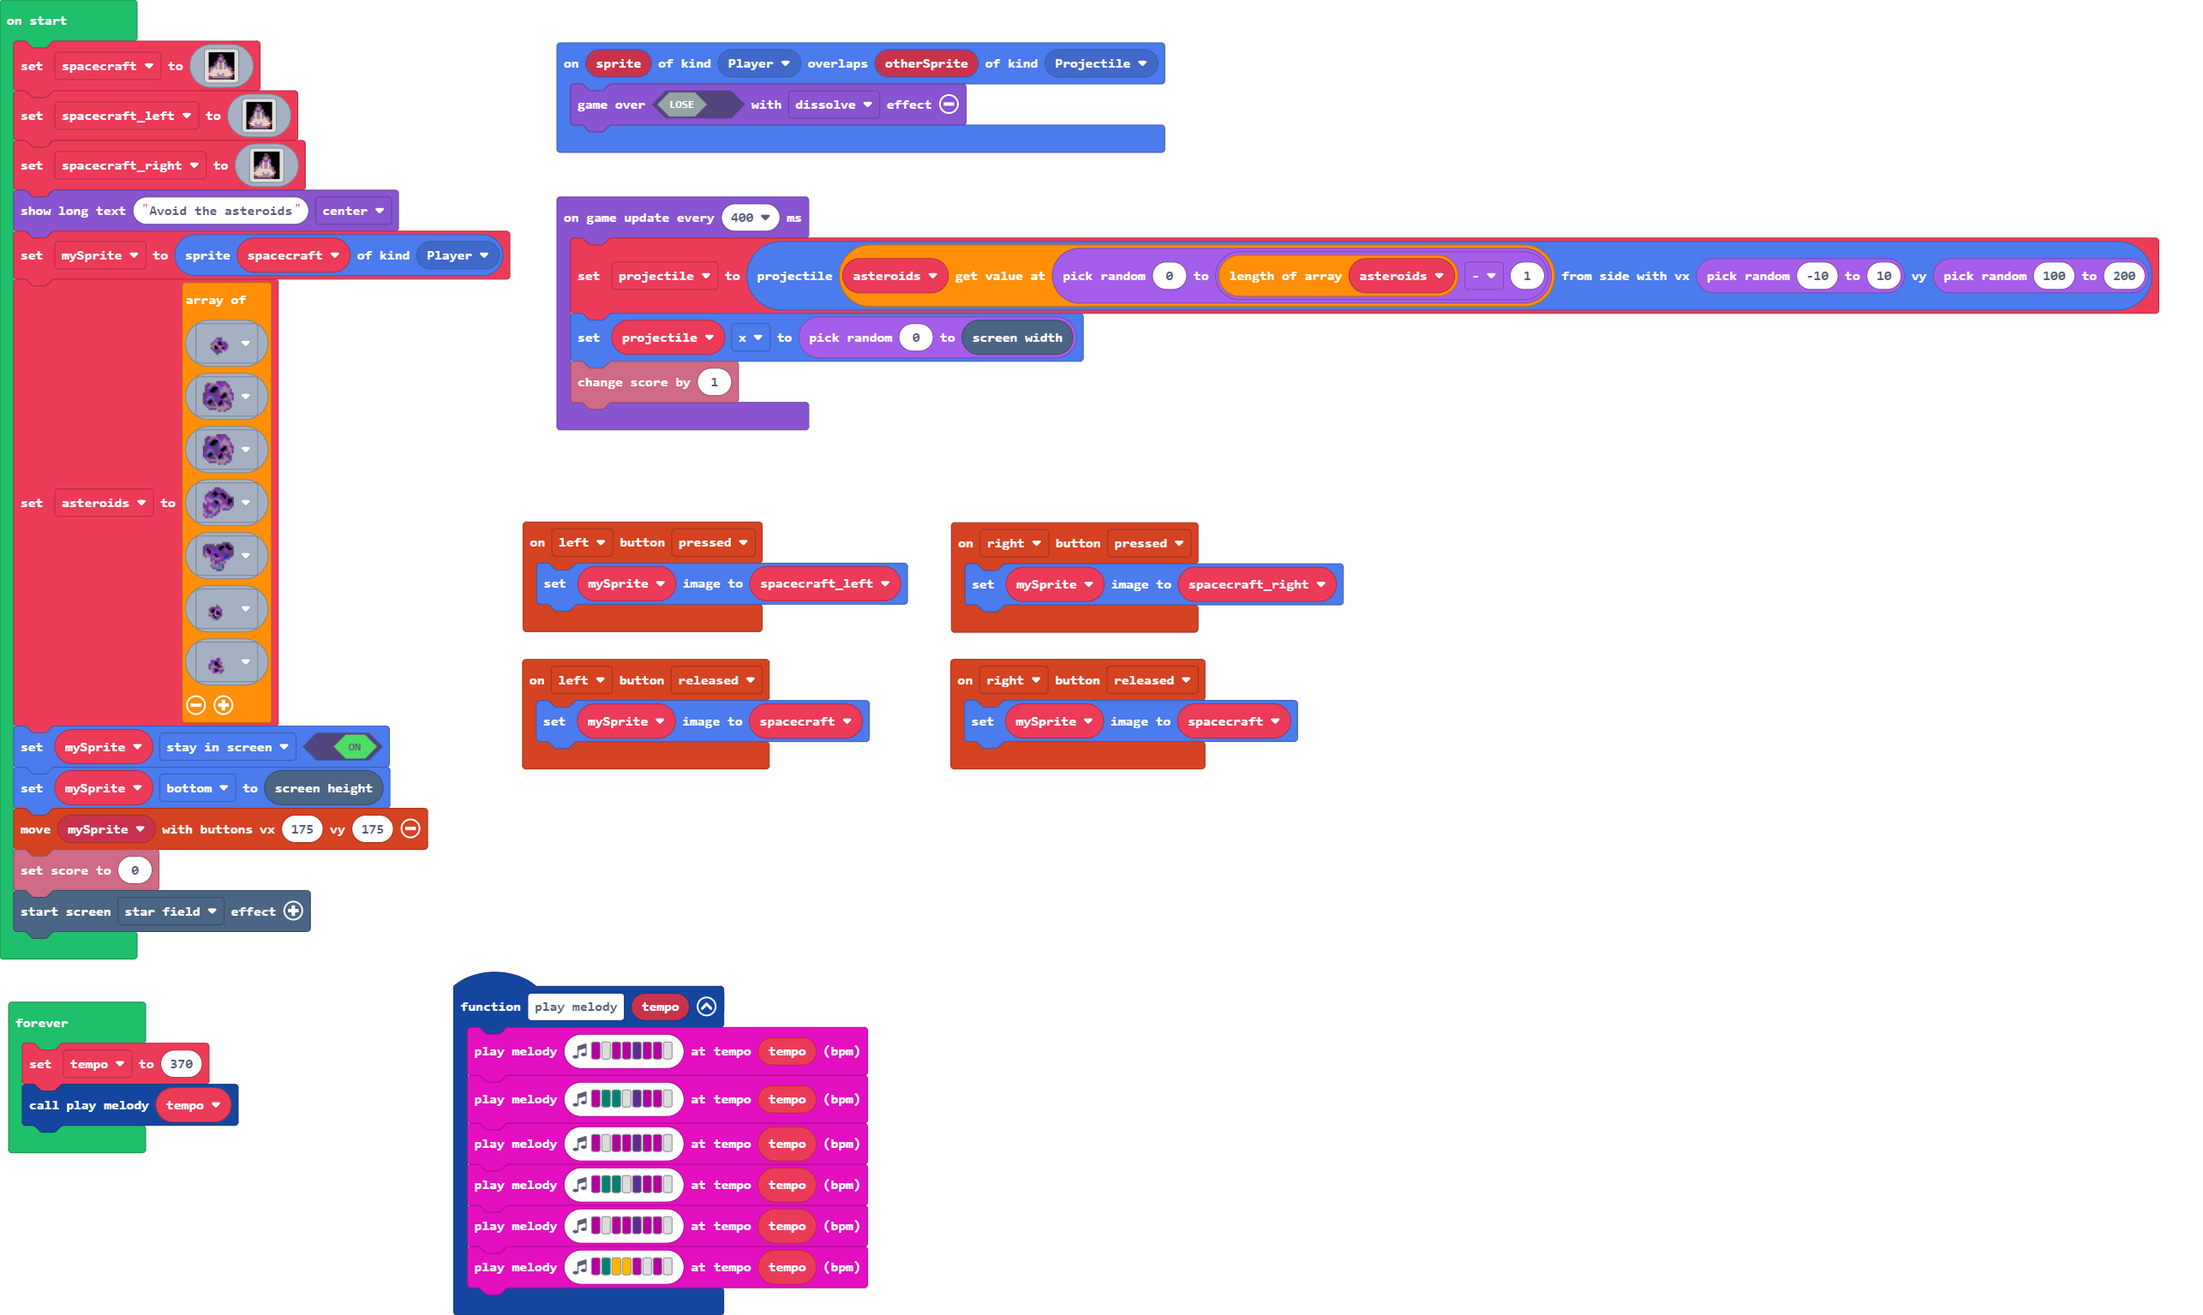
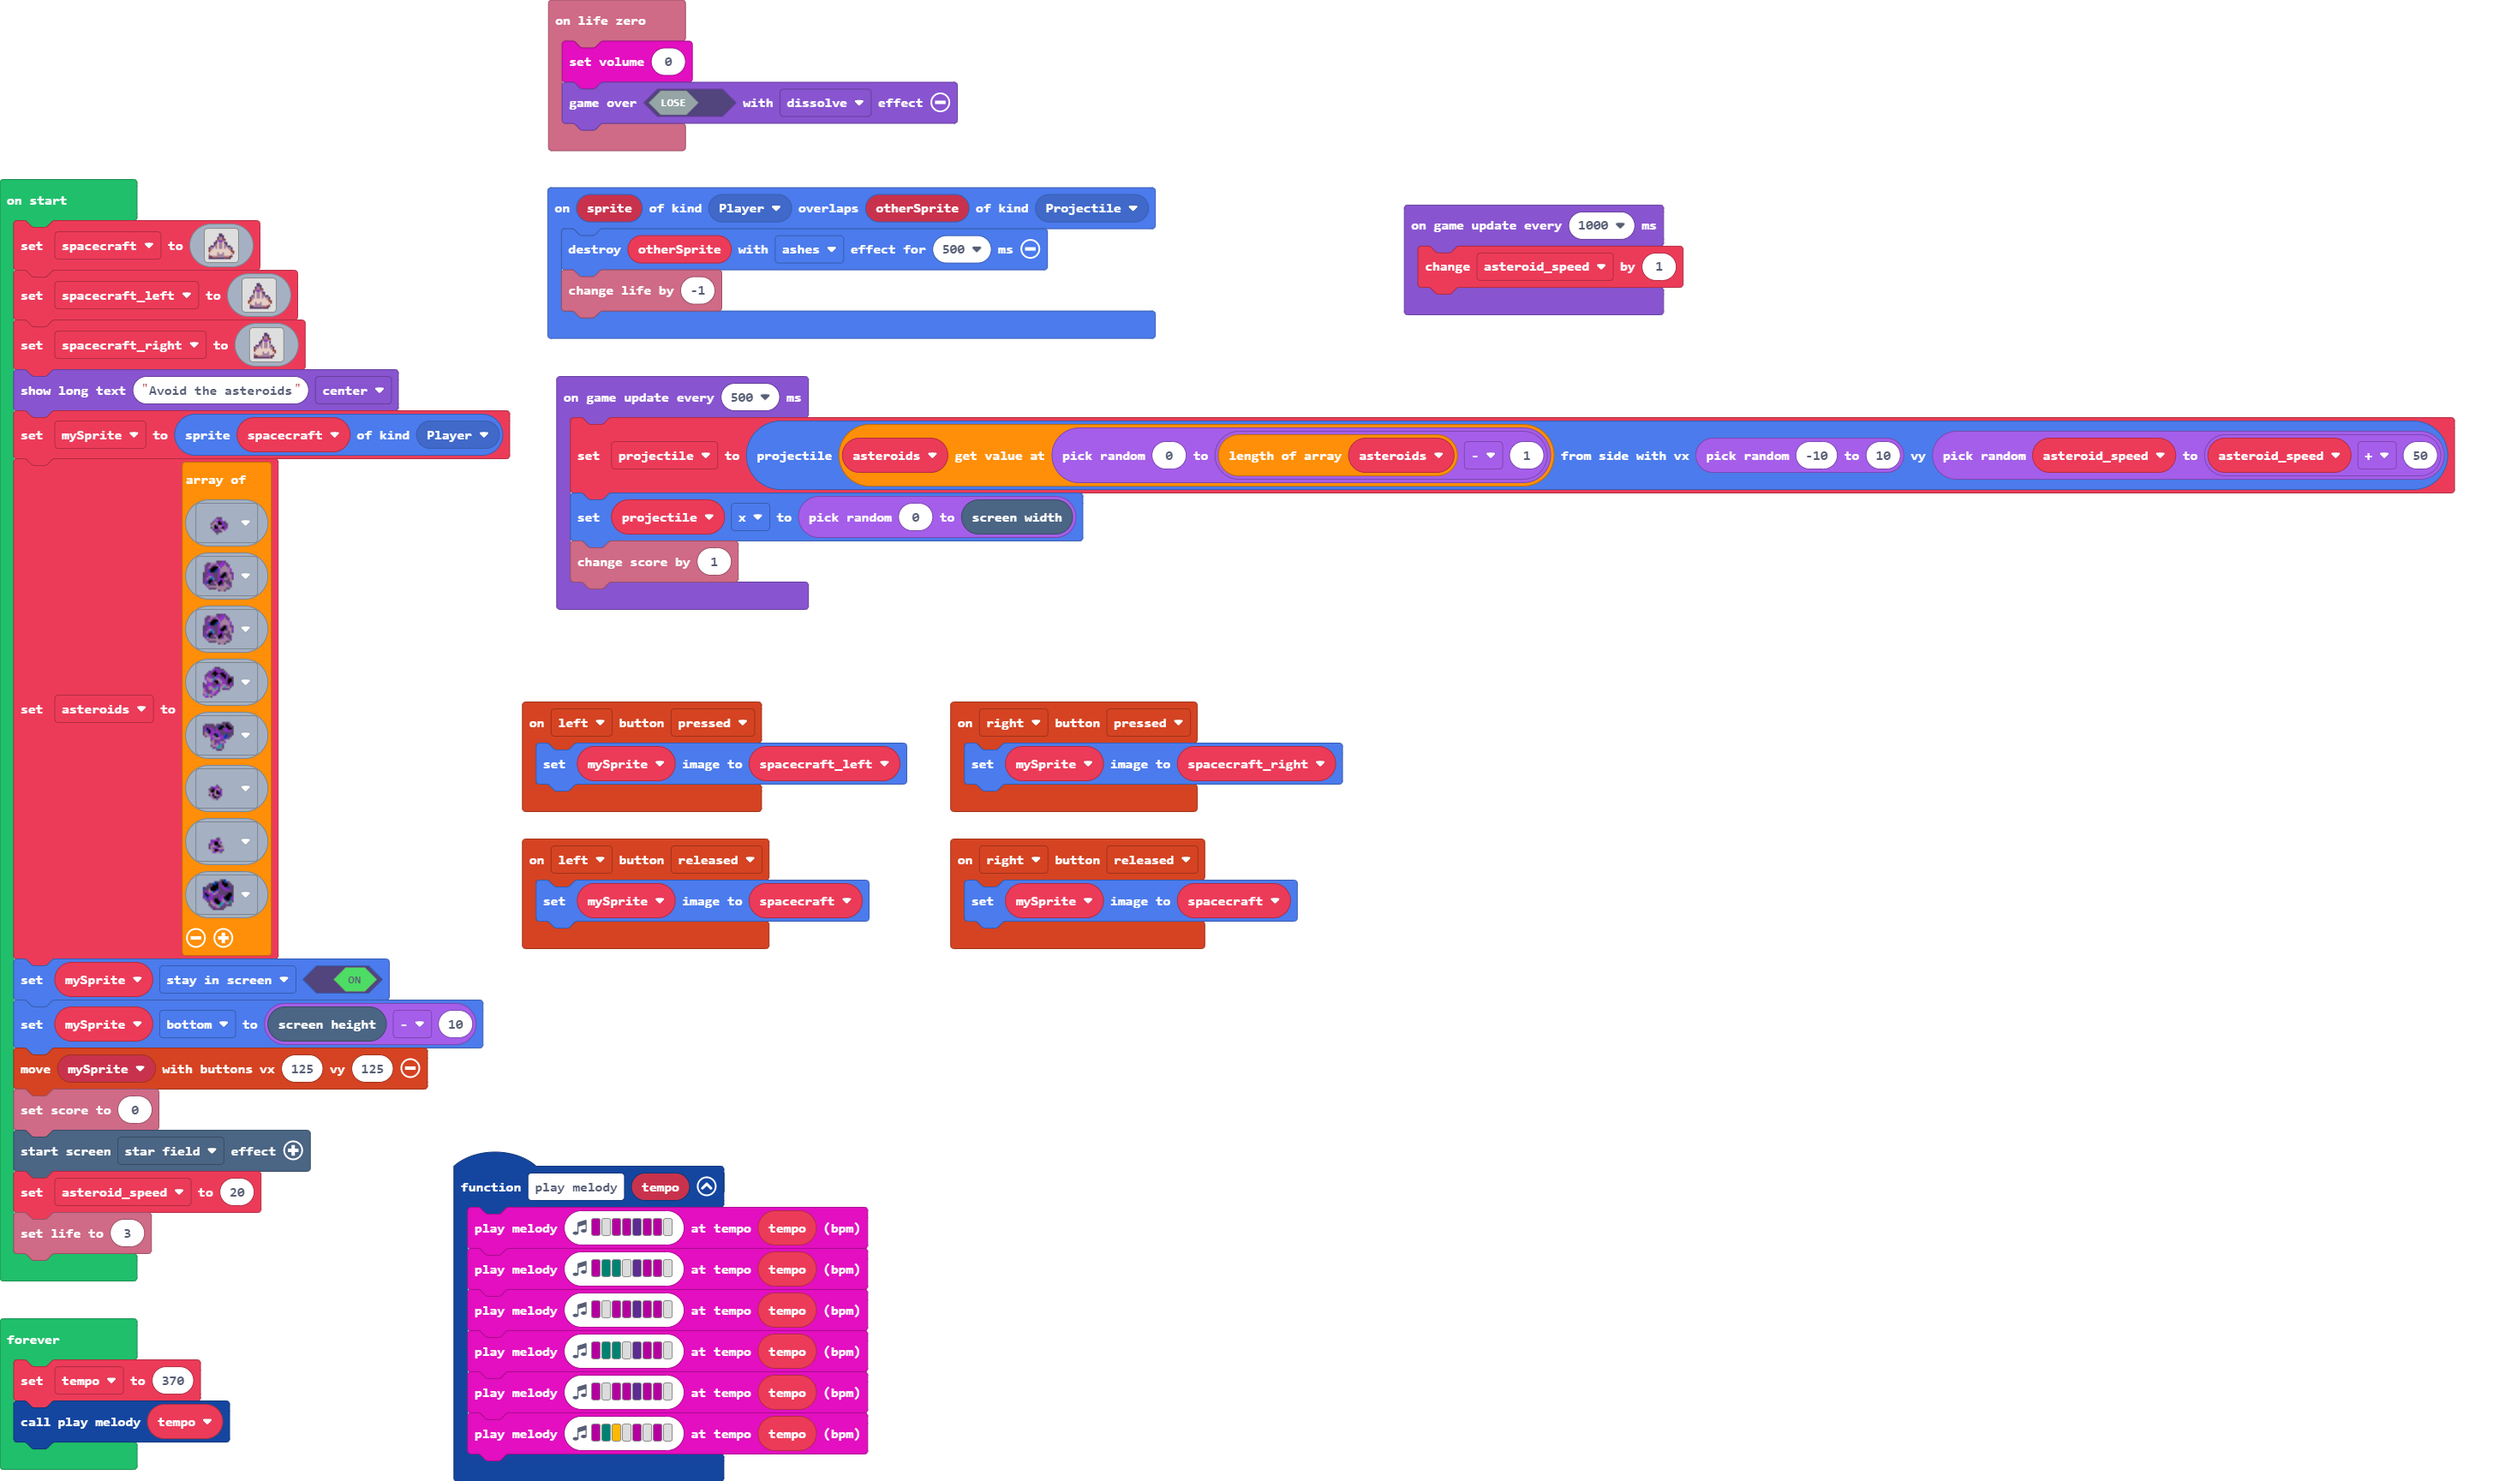
Life management + acceleration of asteroids

diff --git a/main.ts b/main.ts
@@ -11,6 +11,11 @@ controller.right.onEvent(ControllerButtonEvent.Pressed, function () {
     mySprite.setImage(spacecraft_right)
 })
 sprites.onOverlap(SpriteKind.Player, SpriteKind.Projectile, function (sprite, otherSprite) {
+    otherSprite.destroy(effects.ashes, 500)
+    info.changeLifeBy(-1)
+})
+info.onLifeZero(function () {
+    music.setVolume(0)
     game.over(false, effects.dissolve)
 })
 function play_melody (tempo: number) {
@@ -19,67 +24,67 @@ function play_melody (tempo: number) {
     music.playMelody("C - C C D C C - ", tempo)
     music.playMelody("C F F - D C C - ", tempo)
     music.playMelody("C - C C D C C - ", tempo)
-    music.playMelody("C F A A C - C - ", tempo)
+    music.playMelody("C F A - C - C - ", tempo)
 }
-let tempo = 0
 let projectile: Sprite = null
+let tempo = 0
 let mySprite: Sprite = null
 let spacecraft_right: Image = null
 let spacecraft_left: Image = null
 let spacecraft: Image = null
 spacecraft = img`
-    f f f f f f f f f f f f f f f 
-    f f f f f f c c f f f f f f f 
-    f f f f f f c c c f f f f f f 
-    f f f f f c b b c f f f f f f 
-    f f f f f e b b e e f f f f f 
-    f f f f c b a a b b f f f f f 
-    f f f c c d b b d c c f f f f 
-    f f f c b d b b d b c f f f f 
-    f c c b b d b b d b b c c f f 
-    c b b d b d b b d b d b b c f 
-    e b d d d d d d d d d d b e f 
+    . . . . . . . . . . . . . . . 
+    . . . . . . c c . . . . . . . 
+    . . . . . . c c c . . . . . . 
+    . . . . . c b b c . . . . . . 
+    . . . . . e b b e e . . . . . 
+    . . . . c b a a b b . . . . . 
+    . . . c c d b b d c c . . . . 
+    . . . c b d b b d b c . . . . 
+    . c c b b d b b d b b c c . . 
+    c b b d b d b b d b d b b c . 
+    e b d d d d d d d d d d b e . 
     e d d d d d d d d d d d d e e 
     d d d d d b d d b d d d d d e 
-    b d d d d b b b b d d d d b f 
-    e c b 4 b b b b b b b 4 c e f 
-    c c c c c c c c c e c c c f f 
+    b d d d d b b b b d d d d b . 
+    e c b 4 b b b b b b b 4 c e . 
+    c c c c c c c c c e c c c . . 
     `
 spacecraft_left = img`
-    f f f f f f f f f f f f f f f 
-    f f f f f f c c f f f f f f f 
-    f f f f f f c c c f f f f f f 
-    f f f f f c b b c f f f f f f 
-    f f f f f e b b e e f f f f f 
-    f f f f c b a a b b f f f f f 
-    f f f f c d b b d c c f f f f 
-    f f f f b d b b d b c f f f f 
-    f f f c b d b b d b b c c f f 
-    f f c b b d b b d b d b b c f 
-    f f e b d d d d d d d d b e f 
-    f e e d d d d d d d d d d e e 
-    f e d d d b d d b d d d d d e 
-    f f b d d b b b b d d d d b f 
-    f f e c b b b b b b b 4 c e f 
-    f f c c c c c c c e c c c f f 
+    . . . . . . . . . . . . . . . 
+    . . . . . . c c . . . . . . . 
+    . . . . . . c c c . . . . . . 
+    . . . . . c b b c . . . . . . 
+    . . . . . e b b e e . . . . . 
+    . . . . c b a a b b . . . . . 
+    . . . . c d b b d c c . . . . 
+    . . . . b d b b d b c . . . . 
+    . . . c b d b b d b b c c . . 
+    . . c b b d b b d b d b b c . 
+    . . e b d d d d d d d d b e . 
+    . e e d d d d d d d d d d e e 
+    . e d d d b d d b d d d d d e 
+    . . b d d b b b b d d d d b . 
+    . . e c b b b b b b b 4 c e . 
+    . . c c c c c c c e c c c . . 
     `
 spacecraft_right = img`
-    f f f f f f f f f f f f f f f 
-    f f f f f f c c f f f f f f f 
-    f f f f f f c c c f f f f f f 
-    f f f f f c b b c f f f f f f 
-    f f f f f e b b e e f f f f f 
-    f f f f c b a a b b f f f f f 
-    f f f c c d b b d c f f f f f 
-    f f f c b d b b d b f f f f f 
-    f c c b b d b b d b c f f f f 
-    c b b d b d b b d b b c f f f 
-    e b d d d d d d d d b e f f f 
-    e d d d d d d d d d d e e f f 
-    d d d d d b d d b d d d e f f 
-    b d d d d b b b b d d b f f f 
-    e c b 4 b b b b b b c e f f f 
-    c c c c c c c c c e c f f f f 
+    . . . . . . . . . . . . . . . 
+    . . . . . . c c . . . . . . . 
+    . . . . . . c c c . . . . . . 
+    . . . . . c b b c . . . . . . 
+    . . . . . e b b e e . . . . . 
+    . . . . c b a a b b . . . . . 
+    . . . c c d b b d c . . . . . 
+    . . . c b d b b d b . . . . . 
+    . c c b b d b b d b c . . . . 
+    c b b d b d b b d b b c . . . 
+    e b d d d d d d d d b e . . . 
+    e d d d d d d d d d d e e . . 
+    d d d d d b d d b d d d e . . 
+    b d d d d b b b b d d b . . . 
+    e c b 4 b b b b b b c e . . . 
+    c c c c c c c c c e c . . . . 
     `
 game.showLongText("Avoid the asteroids", DialogLayout.Center)
 mySprite = sprites.create(spacecraft, SpriteKind.Player)
@@ -90,19 +95,25 @@ sprites.space.spaceAsteroid3,
 sprites.space.spaceAsteroid4,
 sprites.space.spaceAsteroid1,
 sprites.space.spaceSmallAsteroid3,
-sprites.space.spaceSmallAsteroid2
+sprites.space.spaceSmallAsteroid2,
+sprites.space.spaceAsteroid0
 ]
 mySprite.setFlag(SpriteFlag.StayInScreen, true)
-mySprite.bottom = scene.screenHeight()
-controller.moveSprite(mySprite, 175, 175)
+mySprite.bottom = scene.screenHeight() - 10
+controller.moveSprite(mySprite, 125, 125)
 info.setScore(0)
 effects.starField.startScreenEffect()
-game.onUpdateInterval(400, function () {
-    projectile = sprites.createProjectileFromSide(asteroids[randint(0, asteroids.length - 1)], randint(-10, 10), randint(100, 200))
-    projectile.x = randint(0, scene.screenWidth())
-    info.changeScoreBy(1)
+let asteroid_speed = 20
+info.setLife(3)
+game.onUpdateInterval(1000, function () {
+    asteroid_speed += 1
 })
 forever(function () {
     tempo = 370
     play_melody(tempo)
+})
+game.onUpdateInterval(500, function () {
+    projectile = sprites.createProjectileFromSide(asteroids[randint(0, asteroids.length - 1)], randint(-10, 10), randint(asteroid_speed, asteroid_speed + 50))
+    projectile.x = randint(0, scene.screenWidth())
+    info.changeScoreBy(1)
 })
